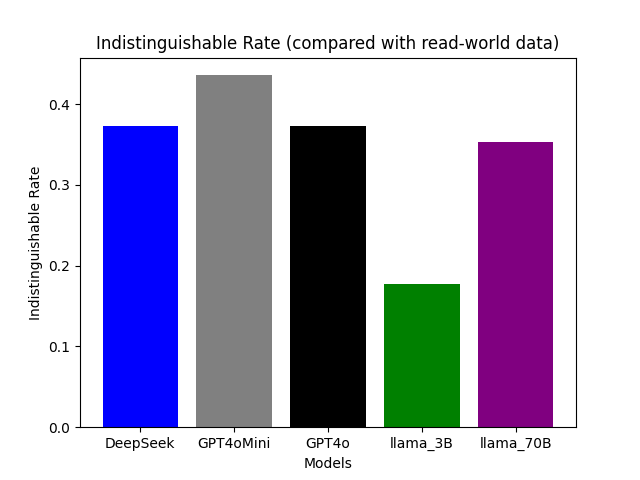
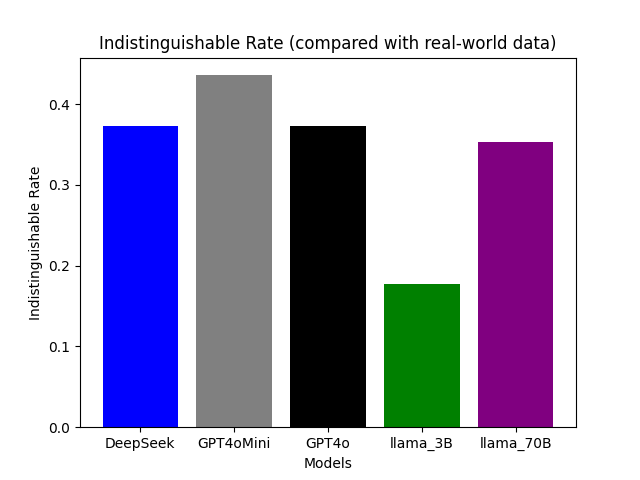
fix typo

Changed region(s): [[0.1562, 0.0625, 0.875, 0.125]]

diff --git a/Evaluation2/result_summary.py b/Evaluation2/result_summary.py
@@ -191,7 +191,7 @@ bars = plt.bar(model_name_list[:-1], Indistinguishable_rate_list, color=bar_colo
 
 
 # Add title and axis labels
-plt.title('Indistinguishable Rate (compared with read-world data)')
+plt.title('Indistinguishable Rate (compared with real-world data)')
 plt.xlabel('Models')
 plt.ylabel('Indistinguishable Rate')
 

diff --git a/Evaluation2/README.md b/Evaluation2/README.md
@@ -57,7 +57,7 @@ Both Falied the Test: 5.569%
 
 ## Gt Eval
 
-### Indistinguishable Rate (compared with read-world data)
+### Indistinguishable Rate (compared with real-world data)
 llama_3B:   17.676%  
 llama_70B:   35.351%  
 GPT4oMini:  43.584%  
